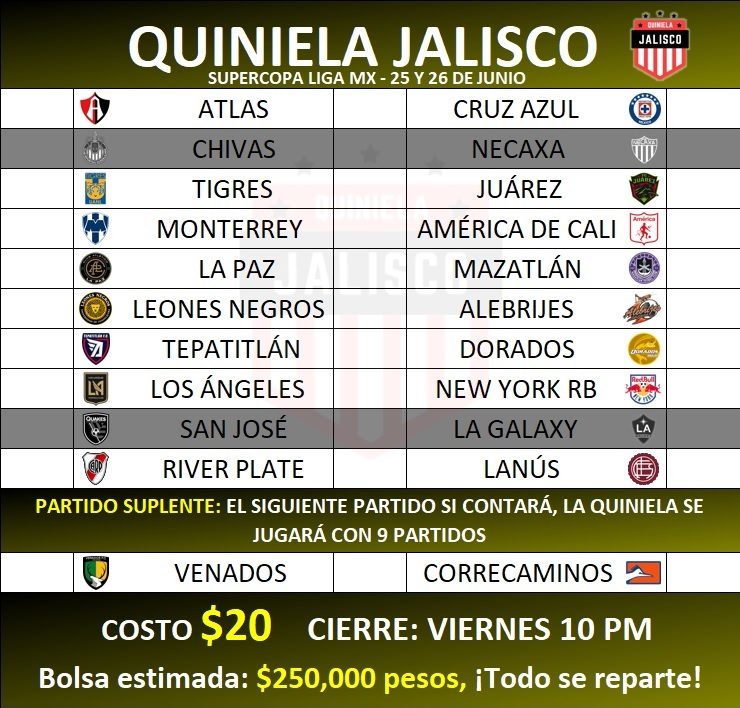
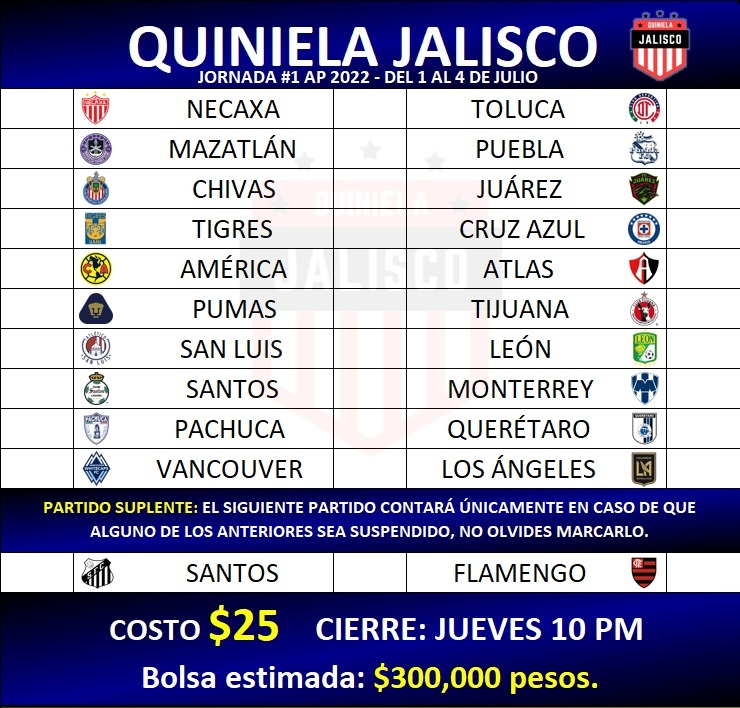
Jornada 1 A22

diff --git a/11/styles11.css b/11/styles11.css
@@ -87,8 +87,8 @@ h1{
     margin-top: 9%;
     border-top: solid 1px black;
     border-radius: 0 0 14px 14px;
-    background: -webkit-linear-gradient(0.53turn, rgb(110,110,0)  ,rgb(0,0,0) 80%);
-    background: linear-gradient(0.53turn, rgb(110,110,0)  ,rgb(0,0,0) 80%);
+    background: -webkit-linear-gradient(0.5turn, rgb(0,0,90)  ,rgb(0,0,0) 80%);
+    background: linear-gradient(0.5turn, rgb(0,0,90)  ,rgb(0,0,0) 80%);
     font-size: x-large;
     text-shadow: 2px 2px 4px black;
 }
@@ -255,27 +255,25 @@ h6{
 }
 
 #bolsatxt:before{
-    content:'Chivas vs Necaxa y San José vs Galaxy fueron\A suspendidos, ';
+    content:'Bolsa estimada: ';
     white-space: pre;
-    font-size:14px;
 }
 
 #cantidad:before{
-    content:'la Quiniela se jugará con 9 partidos.\A\A';
+    content:'$300,000 pesos';
     color: yellow;
     white-space:pre;
-    font-size:14px;
 }
 
 #sub1:before{
-    content:'Bolsa estimada: ';
+    content:'';
     color: white;
     white-space:pre;
 }
 
 
 #sub2:before{
-    content:'$250,000 pesos';
+    content:'';
     color: yellow;
     white-space:pre;
 }

diff --git a/var.js b/var.js
@@ -1,6 +1,6 @@
 var tel  = "5213317816346";
 var telm = "5213325365796";
-var suspIndex  = [1,8];
+var suspIndex  = [];
 var suspIndexm = null;
-var price  = 20;
+var price  = 25;
 var pricem = 20;
